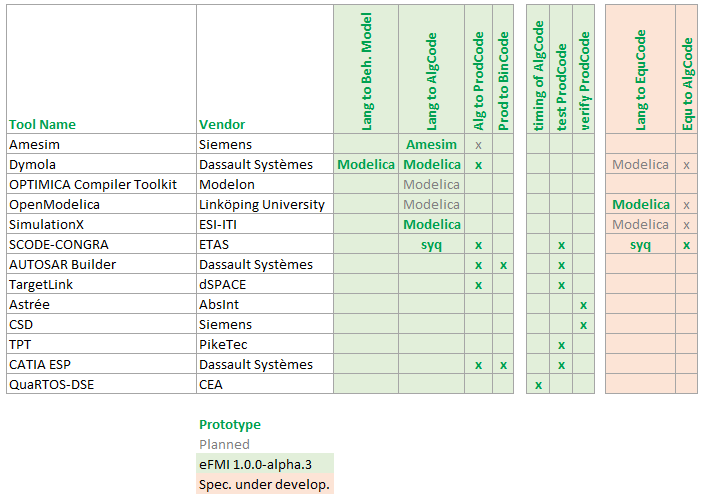
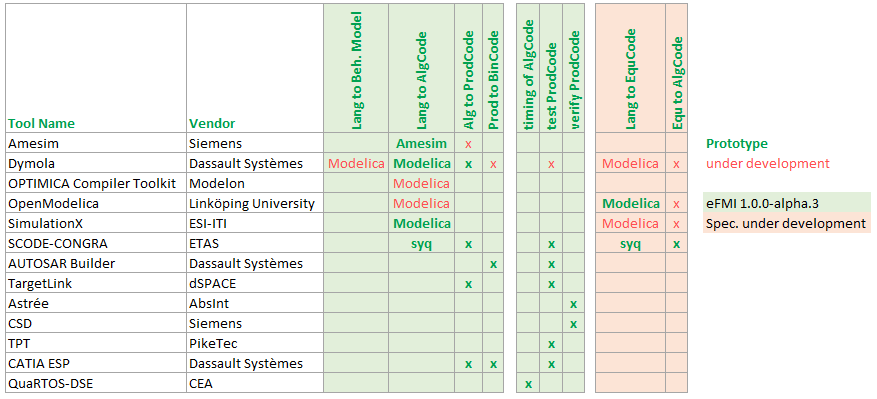
Tools image improved + added (during the project, Behavioral Models have been semi-automatically generated via scripts    from DLR-SR) since in the image there is not prototype listed that generates a Behavioral model

diff --git a/pages/tools.md b/pages/tools.md
@@ -12,7 +12,9 @@ the [eFMI specification 1.0.0-alpha.3](https://emphysis.github.io/pages/download
 
 Explanations:
 
-- _Lang to Beh. Model_: Generate Behavioral Model (= reference results) from modeling language.
+- _Lang to Beh. Model_: Generate Behavioral Model (= reference results) from modeling language
+  (during the project, Behavioral Models have been semi-automatically generated via scripts
+   from DLR-SR).
 
 - _Lang to AlgCode_: Generate Algorithm Code from modeling language.
 
